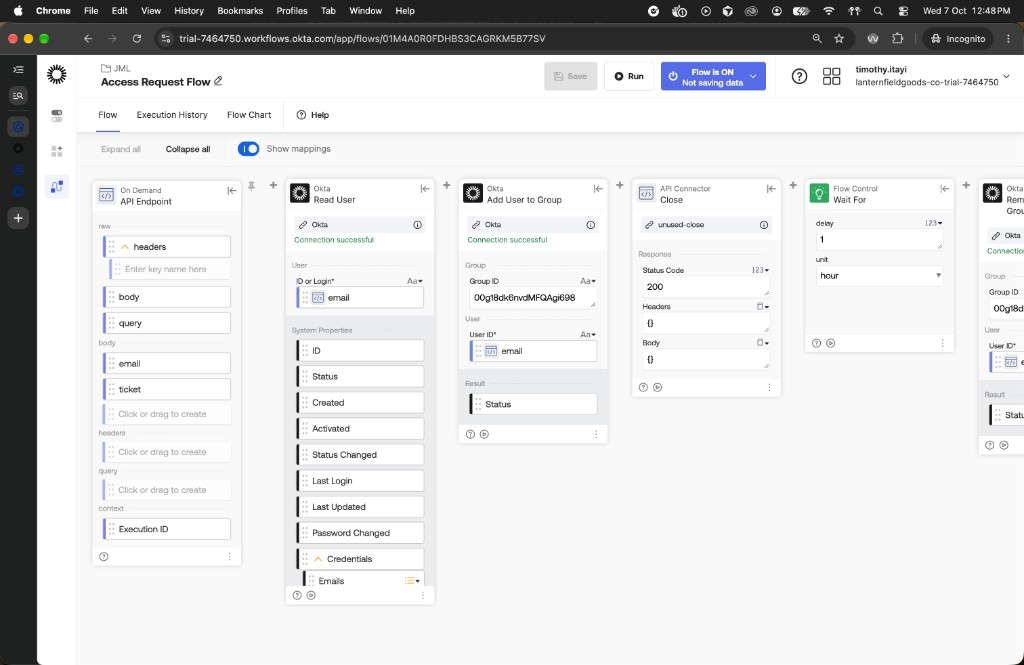
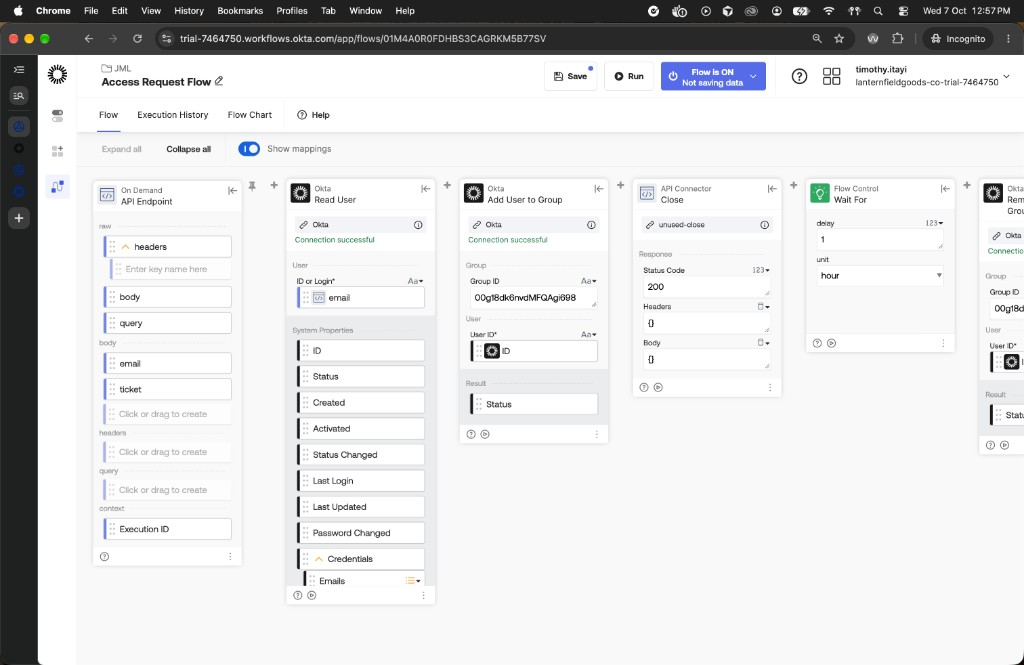
Map Access Request User ID from Read User, not email.
Add and Remove take the ID output under Read User System Properties. Body email only belongs on Read User User or Login.

diff --git a/docs/phases/05-governance.md b/docs/phases/05-governance.md
@@ -31,15 +31,15 @@ Saved, Flow ON, **Not saving data**. It adds the user to `APP-Rostr-Admins`, ret
 | --- | --- |
 | API Endpoint | Body `email`, `ticket`. |
 | Read User | `User or Login` = body `email`. |
-| Add User to Group | Group id above. User ID is mapped from body `email`, not from Read User's `ID` output. |
+| Add User to Group | Group id above. User ID = Read User **ID** (System Properties). |
 | Close | Status 200, empty body. Lets the caller return before the wait. |
 | Wait For | Delay 1, unit hour. |
-| Remove User from Group | Same group id. User ID again from body `email`. |
+| Remove User from Group | Same group id. User ID = Read User **ID**. |
+
+Do not copy a `00u` from Directory. Read User's input is labelled **User or Login**, so body `email` is legal there. Add and Remove are labelled **User ID**. Drag the **ID** output under Read User System Properties onto those two fields. A first canvas had body `email` on Add/Remove User ID; that is the wrong pill.
 
 ![Access Request flow, left: Endpoint, Read User, Add User to Group, Close, Wait For](../../evidence/5.2-access-request-flow-left.png)
 
 ![Access Request flow, right: Add, Close, Wait For, Remove](../../evidence/5.2-access-request-flow-right.png)
 
-The invoke URL is `WORKFLOWS_ACCESS_REQUEST_URL`. The client token is `WORKFLOWS_ACCESS_REQUEST_TOKEN`, this flow's token, not the Joiner token. Neither value is in Git.
-
-Before the first POST, drag Read User's output **ID** onto Add and Remove **User ID**. The group API wants a `00u` id. Email worked on Read User because that field is labelled User or Login. Add and Remove are labelled User ID. If the first POST fails, that mapping is why.
+The invoke URL is `WORKFLOWS_ACCESS_REQUEST_URL`. The client token is `WORKFLOWS_ACCESS_REQUEST_TOKEN`, this flow's token, not the Joiner token. Neither value is in Git. Fulfilment is a POST to that endpoint, not `hr-sync`.
